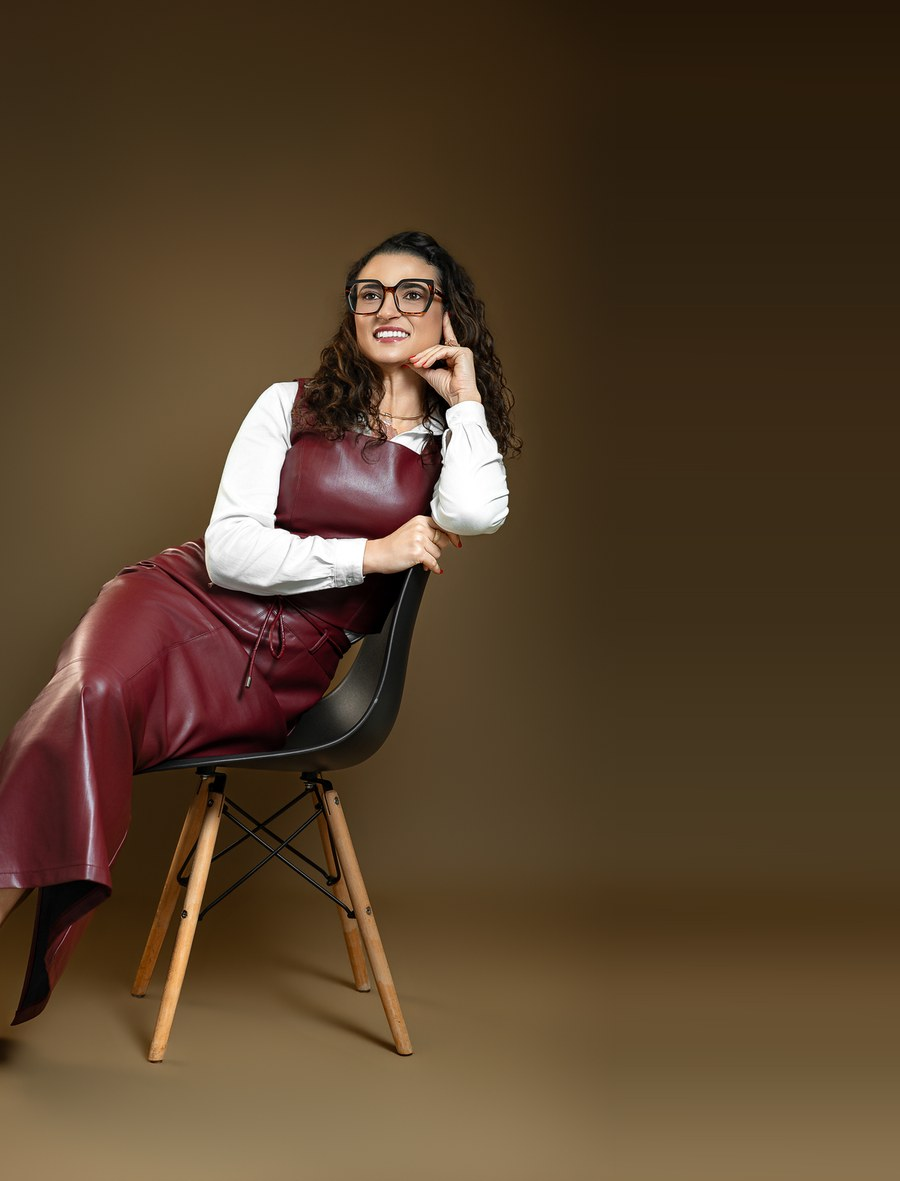
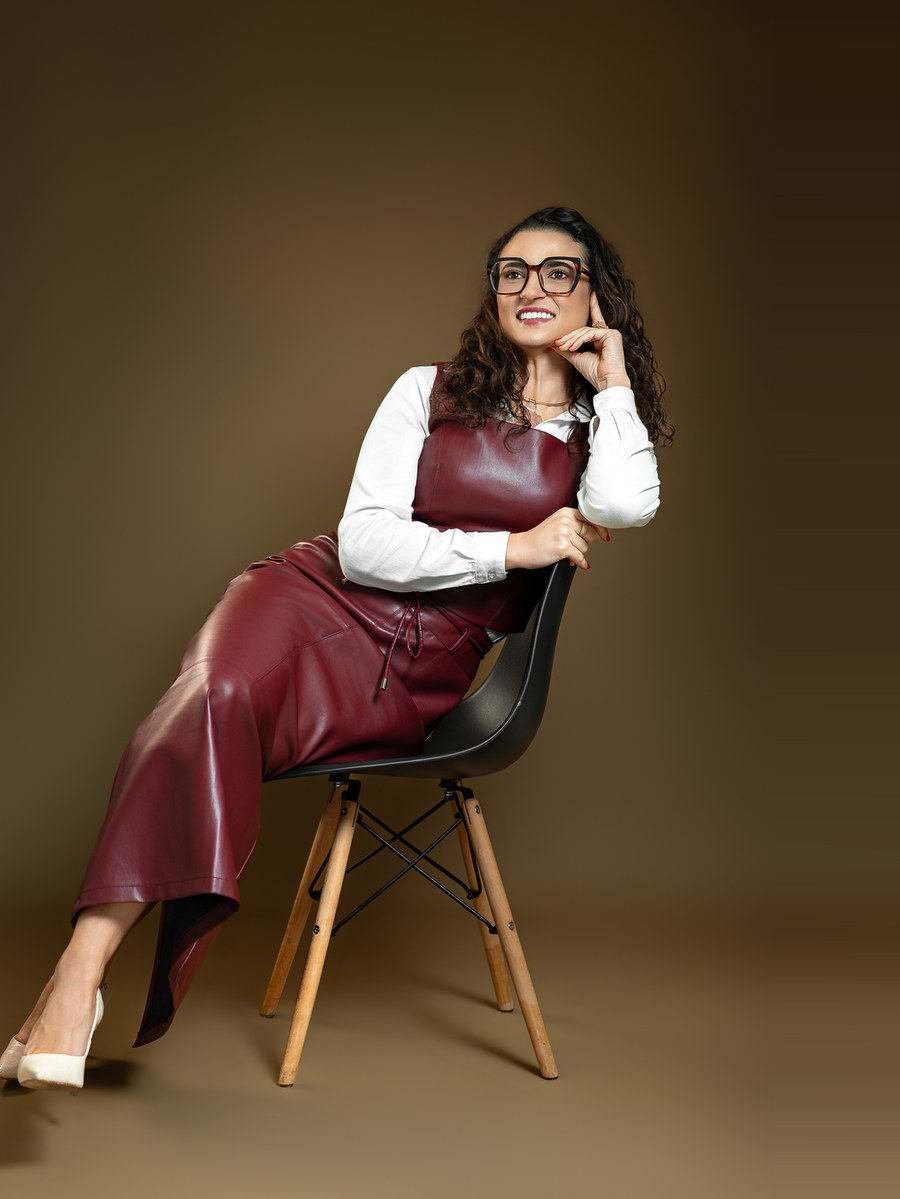
Centraliza a foto da seção Sobre
Recorta marcia-sobre.jpg centralizando a Márcia no quadro (antes ela
ficava encostada à esquerda). Cache-busting ?v=7.

Changed region(s): [[0.0, 0.1219, 0.7467, 0.9754]]

diff --git a/index.html b/index.html
@@ -374,7 +374,7 @@
     <section class="section" id="sobre">
       <div class="container sobre__grid">
         <div class="sobre__photo reveal">
-          <img src="assets/img/marcia-sobre.jpg" width="900" height="1181"
+          <img src="assets/img/marcia-sobre.jpg?v=7" width="900" height="1199"
                alt="Retrato de Márcia Luciana de Oliveira" loading="lazy" />
         </div>
         <div class="reveal">
